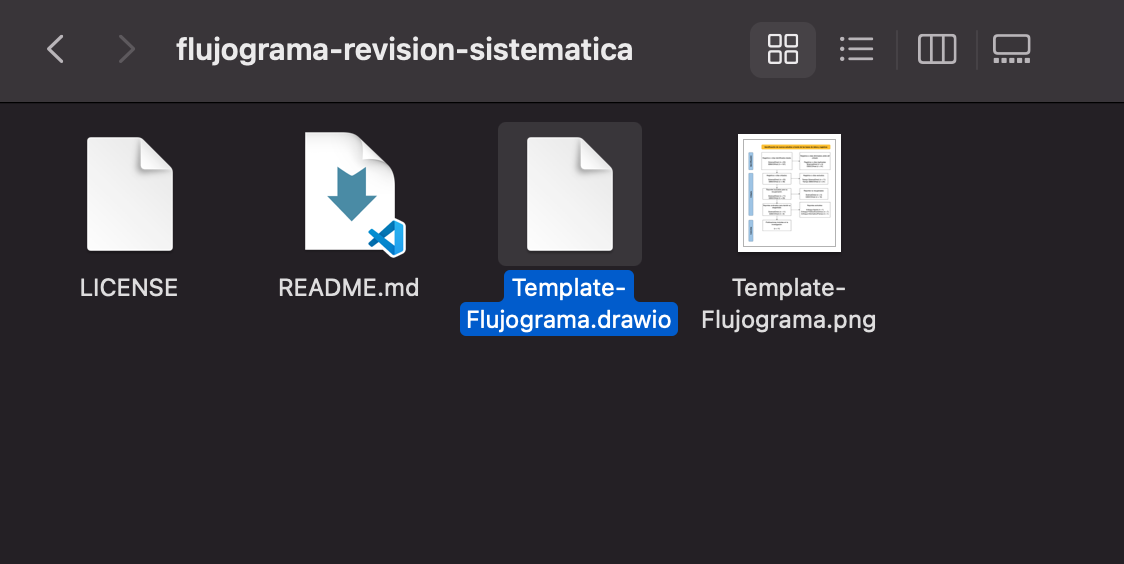
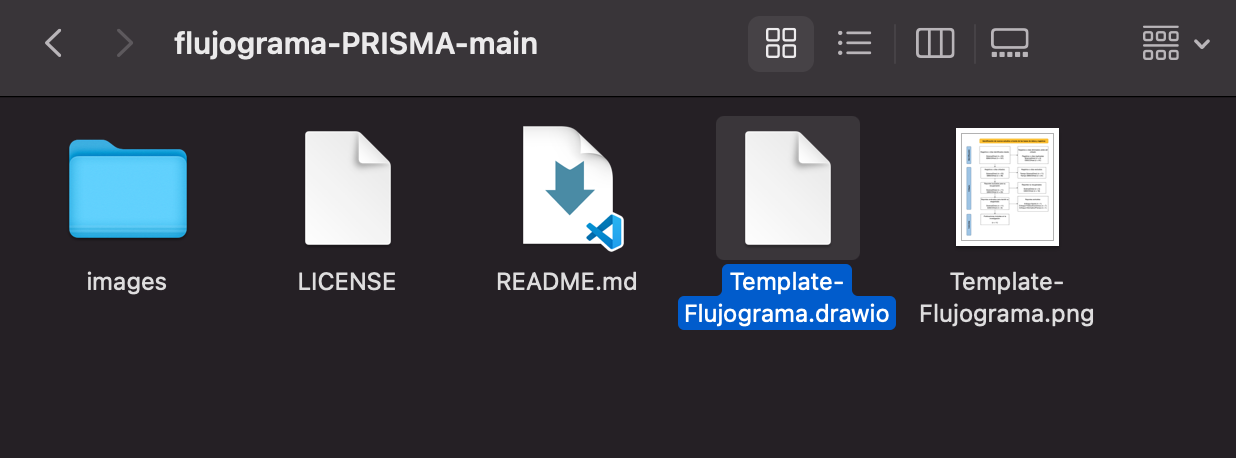
Update README.md

diff --git a/README.md b/README.md
@@ -26,7 +26,7 @@ A continuación se mostrará un breve paso a paso de como editar el archivo de f
 
 **1.1.** Ingrese al repositorio en GitHub:
 
-> https://github.com/aretesatori/flujograma-revision-sistematica
+> https://github.com/aretesatori/flujograma-PRISMA
 
 **1.2.** Haga clic en el botón "Code" de color verde, ubicado en la parte superior de la página del repositorio. Tal como se muestra en la imagen a continuación:  
 
@@ -40,16 +40,16 @@ A continuación se mostrará un breve paso a paso de como editar el archivo de f
     <img src="images/image1.png" width="80%">
 <p>
 
-**1.4.** Luego de eso, debería ser descargado un archivo comprimido llamado `flujograma-revision-sistematica-main.zip` con todo el contenido de este repositorio, incluyendo este documento con las instrucciones.
+**1.4.** Luego de eso, debería ser descargado un archivo comprimido llamado `flujograma-PRISMA-main.zip` con todo el contenido de este repositorio, incluyendo este documento con las instrucciones.
 
 <p align="center">
-    <img src="images/image2.png" width="70%">
+    <img src="images/image2.png" width="80%">
 <p>
 
-**1.5.** Una vez descargado el repositorio, descomprima `flujograma-revision-sistematica-main.zip` e identifique el archivo `Template-Flujograma.drawio`. **Ese archivo corresponde al editable del flujograma**.
+**1.5.** Una vez descargado el repositorio, descomprima `flujograma-PRISMA-main.zip` e identifique el archivo `Template-Flujograma.drawio`. **Ese archivo corresponde al editable del flujograma**.
 
 <p align="center">
-    <img src="images/image3.png" width="90%">
+    <img src="images/image3.png" width="80%">
 <p>
 
 ## 2. Ingrese a **draw.io**
@@ -76,7 +76,7 @@ A continuación se mostrará un breve paso a paso de como editar el archivo de f
 
 Enseguida debería mostrarse una ventana emergente en su navegador que permitirá buscar y abrir el archivo editable desde su computador. 
 
-Ingrese al directorio del repositorio descargado (`flujograma-revision-sistematica-main.zip` que fue descomprimido) y seleccione el archivo `Template-Flujograma.drawio`.
+Ingrese al directorio del repositorio descargado (`flujograma-PRISMA-main.zip` que fue descomprimido) y seleccione el archivo `Template-Flujograma.drawio`.
 
 ## 4. Visualice y Edite el Flujograma
 
@@ -86,9 +86,7 @@ Ingrese al directorio del repositorio descargado (`flujograma-revision-sistemati
     <img src="images/image6.png" width="100%">
 <p>
 
-**4.2.** La interfaz de **draw.io** es relativamente intuitiva, de manera que cualquier usuario puede utilizar y editar diagramas sin nunca haber utilizado esa plataforma. 
-
-Asimismo, a continuación se mostrará brevemente cómo editar la información contenida en el flujograma.
+**4.2.** La interfaz de **draw.io** es relativamente intuitiva, de manera que cualquier usuario puede utilizar y editar diagramas sin nunca haber utilizado esa plataforma. Asimismo, a continuación se mostrará brevemente cómo editar la información contenida en el flujograma.
 
 **4.2.1.** 
 
@@ -120,19 +118,17 @@ De forma general, se recomienda guardar los diagramas en formato **PNG** (_Porta
 
 # Información Adicional
 
-Para este flujograma, dentro de cada rectángulo blanco se utiliza **fuente Helvetica**, letra **tamaño 16 px**, texto con centrado horizontal y vertical respecto al rectángulo y color de texto negro (hexadecimal **#000**). 
+* Para este flujograma, dentro de cada rectángulo blanco se utiliza **fuente Helvetica**, letra **tamaño 16 px**, texto con centrado horizontal y vertical respecto al rectángulo y color de texto negro (hexadecimal **#000**). 
 
 <p align="center">
-    <img src="images/info0.png" width="75%">
+    <img src="images/info0.png" width="70%">
 <p>
 
-Dentro de los rectángulos azules (lado izquierdo) y dentro del rectángulo naranja (parte superior) se utiliza **fuente Arial**, letra **tamaño 16 px**, texto en **negrita**, texto con centrado horizontal y vertical respecto al rectángulo y color de texto negro (hexadecimal **#000**). 
+* Dentro de los rectángulos azules (lado izquierdo) y dentro del rectángulo naranja (parte superior) se utiliza **fuente Arial**, letra **tamaño 16 px**, texto en **negrita**, texto con centrado horizontal y vertical respecto al rectángulo y color de texto negro (hexadecimal **#000**). 
 
 <p align="center">
     <img src="Template-Flujograma.png" width="75%">
 <p>
-
-Template-Flujograma.png
 
 * El **color naranja** de relleno utilizado es **#FFC000** y el color del borde es #E3AB00. El ancho del borde es 2 pt.
 
